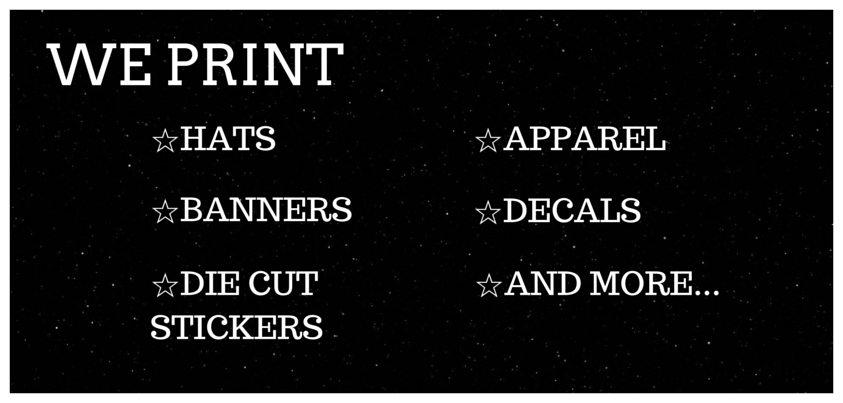
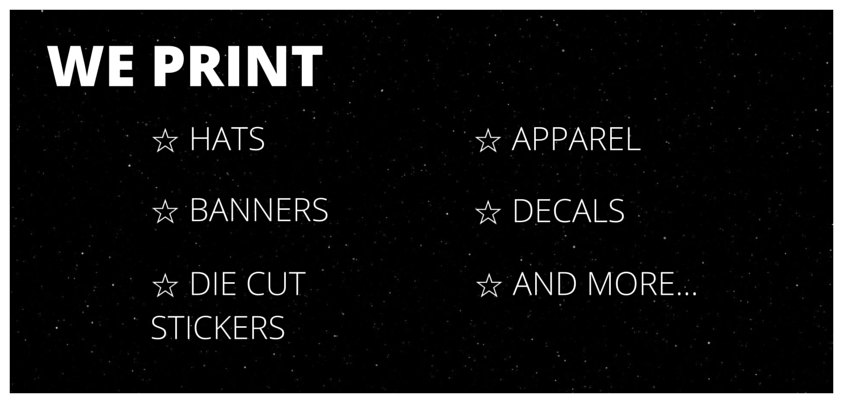
added 4th slide
client request

diff --git a/index.html b/index.html
@@ -87,6 +87,7 @@
                             <li data-target="#carousel-example-generic" data-slide-to="0" class="active"></li>
                             <li data-target="#carousel-example-generic" data-slide-to="1"></li>
                             <li data-target="#carousel-example-generic" data-slide-to="2"></li>
+                            <li data-target="#carousel-example-generic" data-slide-to="3"></li>
                         </ol>
 
                         <!-- Wrapper for slides -->
@@ -99,6 +100,9 @@
                             </div>
                             <div class="item">
                                 <img class="img-responsive img-full" src="img/slide-3.jpg" alt="">
+                            </div>
+                            <div class="item">
+                                <img class="img-responsive img-full" src="img/slide-4.jpg" alt="">
                             </div>
                         </div>
 
